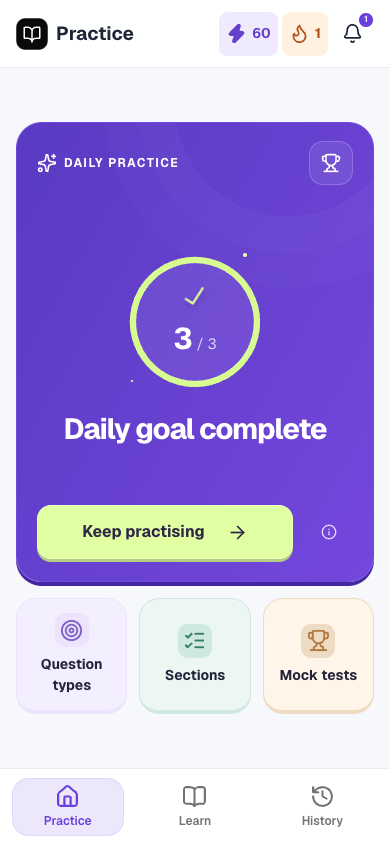
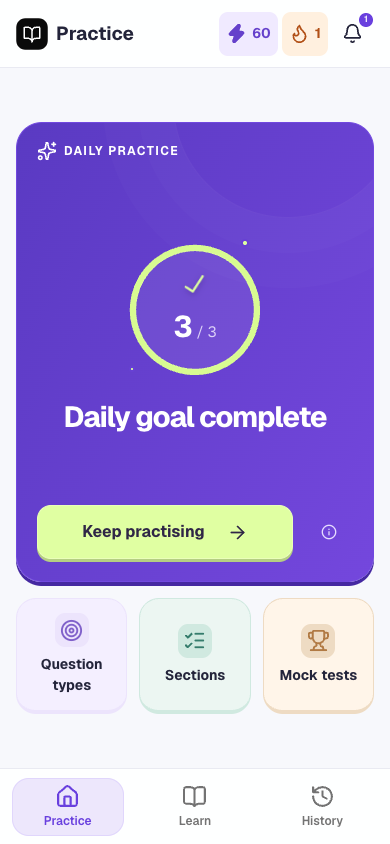
Keep header sticky and move achievements into History

Changed region(s): [[0.1538, 0.2773, 0.8615, 0.5237], [0.0923, 0.154, 0.4615, 0.2156], [0.8308, 0.154, 0.8923, 0.2156]]

diff --git a/tests/practice.spec.ts b/tests/practice.spec.ts
@@ -1,4 +1,30 @@
 import { test, expect, type Page } from "@playwright/test";
+async function openAchievements(page: Page) {
+  const mobile = page.viewportSize()!.width < 768;
+  await page
+    .getByRole("navigation", {
+      name: mobile ? "Mobile navigation" : "Main navigation",
+      exact: true,
+    })
+    .getByRole("link", {
+      name: mobile ? "History" : "My practice",
+      exact: true,
+    })
+    .click();
+  await page.getByRole("link", { name: "Achievements", exact: true }).click();
+  await expect(page).toHaveURL(/\/achievements$/);
+  await expect(
+    page
+      .getByRole("navigation", {
+        name: mobile ? "Mobile navigation" : "Main navigation",
+        exact: true,
+      })
+      .getByRole("link", {
+        name: mobile ? "History" : "My practice",
+        exact: true,
+      }),
+  ).toHaveAttribute("aria-current", "page");
+}
 async function drill(page: Page, name: string) {
   await page.goto("/#types");
   await page.getByRole("searchbox").fill(name.replaceAll("\\", ""));
@@ -155,7 +181,7 @@ test("shared cards list hides unnecessary pagination and preserves navigation on
   await expect(
     page.getByRole("navigation", { name: "practice mode pages", exact: true }),
   ).toHaveCount(0);
-  await page.getByRole("button", { name: "View achievements" }).click();
+  await openAchievements(page);
   await expect(page.locator(".cards-list-grid .achievement")).toHaveCount(4);
   const achievementNext = page.getByRole("button", {
     name: "Next achievement pages",
@@ -285,7 +311,7 @@ test("screen-sized game navigation, all question pages and beginner guidance", a
       page.getByRole("region", { name: "Practice level" }),
     ).toBeVisible();
     await screenFits(page);
-    await page.getByRole("button", { name: "View achievements" }).click();
+    await openAchievements(page);
     await expect(
       page.getByRole("button", {
         name: "First spark, not earned. View achievement",
@@ -868,7 +894,7 @@ test("daily quest earns real XP and badges, persists after reload and resets wit
   await expect(
     page.getByRole("button", { name: "0 XP, level 1. View progress" }),
   ).toBeVisible();
-  await page.getByRole("button", { name: "View achievements" }).click();
+  await openAchievements(page);
   await page
     .getByRole("button", { name: "First spark, not earned. View achievement" })
     .click();
@@ -911,7 +937,7 @@ test("daily quest earns real XP and badges, persists after reload and resets wit
   await expect(
     page.getByRole("heading", { name: "Daily goal complete", exact: true }),
   ).toBeVisible();
-  await page.getByRole("button", { name: "View achievements" }).click();
+  await openAchievements(page);
   await expect(
     page.getByRole("button", {
       name: "First spark, earned. View achievement",
@@ -1332,7 +1358,7 @@ test("daily home groups progress and actions across fresh, partial and completed
       await expect(action).toBeEnabled();
       await expect(
         daily.getByRole("button", { name: "View achievements" }),
-      ).toBeVisible();
+      ).toHaveCount(0);
       await expect(page.locator(".practice-modes a")).toHaveCount(3);
       await screenFits(page);
       const bounds = await daily.evaluate((node) => {
@@ -1366,7 +1392,7 @@ test("daily home groups progress and actions across fresh, partial and completed
   await expect(
     page.getByRole("button", { name: "How practice XP works" }),
   ).toBeFocused();
-  await page.getByRole("button", { name: "View achievements" }).click();
+  await openAchievements(page);
   await expect(
     page.getByRole("heading", { name: "Your achievements" }),
   ).toBeVisible();

diff --git a/src/GameHub.tsx b/src/GameHub.tsx
@@ -110,7 +110,6 @@ export function GameStatus({
 }
 export function GameHub({
   view,
-  onViewChange,
   progress: p,
   today,
   ready,
@@ -118,14 +117,12 @@ export function GameHub({
   navigate,
 }: {
   view: string;
-  onViewChange: (view: string) => void;
   progress: Progress;
   today: string;
   ready: boolean;
   onQuest: () => void;
   navigate: (page: ScreenId) => void;
 }) {
-  const setView = onViewChange;
   const [selected, setSelected] = useState<string | null>(null);
   const done = Math.min(3, dayCount(p, today)),
     complete = done >= 3,
@@ -142,25 +139,6 @@ export function GameHub({
             {view === "progress" ? "Your progress" : "Your achievements"}
             <span className="accent-dot">.</span>
           </h2>
-          <div className="hub-tools">
-            {view !== "badges" && (
-              <Tooltip>
-                <TooltipTrigger
-                  render={
-                    <Button
-                      size="icon"
-                      variant="outline"
-                      aria-label="View achievements"
-                      onClick={() => setView("badges")}
-                    />
-                  }
-                >
-                  <Trophy />
-                </TooltipTrigger>
-                <TooltipContent>Achievements</TooltipContent>
-              </Tooltip>
-            )}
-          </div>
         </div>
       )}
       <div className="quest-grid">
@@ -174,22 +152,6 @@ export function GameHub({
                 <Sparkles className="size-3.5" />
                 DAILY PRACTICE
               </span>
-              <Tooltip>
-                <TooltipTrigger
-                  render={
-                    <Button
-                      size="icon"
-                      variant="ghost"
-                      className="quest-achievements"
-                      aria-label="View achievements"
-                      onClick={() => setView("badges")}
-                    />
-                  }
-                >
-                  <Trophy />
-                </TooltipTrigger>
-                <TooltipContent>Achievements</TooltipContent>
-              </Tooltip>
             </div>
             <div className="quest-body">
               <div

diff --git a/src/App.tsx b/src/App.tsx
@@ -420,7 +420,11 @@ export default function App() {
   }
   const currentGuide = guides.find((g) => g.id === guideId);
   const active = titles[page] ? page : "home";
-  const title = result ? "Review" : currentGuide?.title || titles[active];
+  const navActive = hubView === "badges" ? "history" : active;
+  const title = result
+    ? "Review"
+    : currentGuide?.title ||
+      (hubView === "badges" ? "Achievements" : titles[active]);
   const practicePlan =
     page === "practice" && progressReady
       ? makePlan(route.mode, route.practiceId)
@@ -443,7 +447,7 @@ export default function App() {
           <Link to="/" className="rail-logo" aria-label="PTE Studio home">
             <img src={asset("icon.svg")} alt="" className="size-9 rounded-xl" />
           </Link>
-          <Nav active={active} />
+          <Nav active={navActive} />
         </aside>
         <div className="workspace">
           <header className="topbar">
@@ -559,7 +563,6 @@ export default function App() {
                 <div className="home-screen">
                   <GameHub
                     view={hubView}
-                    onViewChange={setHubView}
                     progress={progress}
                     today={today}
                     ready={progressReady}
@@ -741,7 +744,7 @@ export default function App() {
             </div>
           </main>
         </div>
-        <Nav active={active} mobile />
+        <Nav active={navActive} mobile />
         <Dialog open={clearConfirm} onOpenChange={setClearConfirm}>
           <DialogContent className="practice-ui" showCloseButton={false}>
             <DialogTitle>Clear your practice history?</DialogTitle>

diff --git a/src/LearningScreens.tsx b/src/LearningScreens.tsx
@@ -10,9 +10,10 @@ import {
   Check,
   History,
   Trash2,
+  Trophy,
   Info,
 } from "lucide-react";
-import { Button } from "./components/ui/button";
+import { Button, buttonVariants } from "./components/ui/button";
 import { Badge } from "./components/ui/badge";
 import { ReadingPages } from "./Pages";
 import { CardsList } from "./components/CardsList";
@@ -299,18 +300,29 @@ export function HistoryScreen({
 }) {
   return (
     <div className="screen-stack">
-      <div className="screen-toolbar">
+      <div className="screen-toolbar flex-wrap">
         <h2 className="screen-title">Your sessions.</h2>
-        {!!history.length && (
-          <Button
-            variant="outline"
-            size="icon"
-            aria-label="Clear practice history"
-            onClick={onClear}
+        <div className="ml-auto flex items-center gap-2">
+          <Link
+            to="/achievements"
+            className={buttonVariants({ variant: "outline" })}
+            data-slot="button"
+            data-size="default"
+            data-variant="outline"
           >
-            <Trash2 />
-          </Button>
-        )}
+            <Trophy /> Achievements
+          </Link>
+          {!!history.length && (
+            <Button
+              variant="outline"
+              size="icon"
+              aria-label="Clear practice history"
+              onClick={onClear}
+            >
+              <Trash2 />
+            </Button>
+          )}
+        </div>
       </div>
       <CardsList
         items={history}

diff --git a/src/screens.css b/src/screens.css
@@ -30,7 +30,8 @@
   height: 25px;
 }
 .topbar {
-  position: relative;
+  position: sticky;
+  top: 0;
   flex: 0 0 80px;
   height: 80px;
   padding: 0 32px;
@@ -1491,19 +1492,6 @@
 }
 .hub-play .quest-topline {
   flex-shrink: 0;
-}
-.quest-achievements[data-size="icon"] {
-  color: #fff;
-  background: #ffffff14;
-  border: 1px solid #ffffff30;
-  border-radius: 14px;
-  width: 44px;
-  min-width: 44px;
-  min-height: 44px;
-}
-.quest-achievements[data-size="icon"]:hover {
-  color: #fff;
-  background: #ffffff28;
 }
 .hub-play .quest-body {
   flex: 1;

diff --git a/docs/evidence/home-balance.md b/docs/evidence/home-balance.md
@@ -1,17 +1,20 @@
 # Practice home balance — issue #39
 
-The daily panel now keeps its progress, state heading and primary action together. Achievements opens from the panel's top row, removing the isolated trophy row. The bounded panel and larger ring preserve the violet/lime practice design without stretching blank space through the entire workspace. Short windows arrange the ring and heading side by side. All three practice modes still use CardsList; progress remains in the header. The XP explanation opens by click/tap or keyboard in a dismissible popover.
+The daily panel now keeps its progress, state heading and primary action together. Achievements opens from a labelled control in History; Practice and Progress have no trophy shortcut. The collection retains its direct route and keeps History selected. The bounded panel and larger ring preserve the violet/lime practice design without stretching blank space through the entire workspace. Short windows arrange the ring and heading side by side. All three practice modes still use CardsList; progress remains in the header. The XP explanation opens by click/tap or keyboard in a dismissible popover.
 
-Local Chrome evidence uses synthetic progress, not learner records:
+The workspace header remains sticky while the short-window escape scrolls. Local Chrome evidence uses synthetic progress, not learner records:
 
 - [Fresh phone](home-balanced-fresh-mobile.png)
 - [Completed phone](home-balanced-complete-mobile.png)
 - [Desktop](home-balanced-desktop.png)
+- [Achievements in History](history-achievements-mobile.png)
 
-Verification: `npm run build` passes content/model validation, TypeScript, client artifact and chunk-budget checks. Five focused browser journeys pass with `PTE_TEST_PORT=4198 npx playwright test tests/practice.spec.ts --grep 'daily home groups|simplified workspace fits|daily quest earns real|an empty quest|screen-sized game navigation'`.
+Verification: `npm run build` passes content/model validation, TypeScript, client artifact and chunk-budget checks. Nine focused browser journeys pass with `PTE_TEST_PORT=4198 npx playwright test tests/practice.spec.ts --grep 'shared cards list (fits|hides|pages)|screen-sized game navigation|daily quest earns real|an empty quest|daily home groups|simplified workspace fits|populated compact history'`.
 
 The home regression inspects fresh, partial and completed progress at 320×568, 360×640, 390×844, 768×1024 and 1440×900, checks that controls and progress fit the panel, exercises XP help and focus restoration, achievements and completion navigation, and verifies reachable controls at 320px width and heights 400, 451, 500, 540, 560 and 561 through the home scrolling escape and its boundary. Existing journeys cover saved rewards, reload/reset, partial quest resume and reduced motion. An old completion-label assertion was updated to the new visible heading; reward values and behaviour assertions remain intact.
 
-This is local Chrome evidence. Native iOS Safari, full-suite coverage, merge and deployment are not claimed. Product/agent guidance needs no change: existing navigation, practice modes, privacy and reward contracts are preserved. Rollback is a presentation-only revert, with no storage/schema migration.
+This is local Chrome evidence. Native iOS Safari, full-suite coverage, merge and deployment are not claimed. AGENTS.md records the sticky header and the requested History placement. Practice modes, privacy and reward contracts are preserved. Rollback is a presentation-only revert, with no storage/schema migration.
 
 The single independent review found no actionable PR defects at base `e3cbeefdcaa0fcb233d2014975d8dcd4d8cc27a9` / head `21b0be95723ac930d93790d08f5f51ea9f1ec91c`. It independently exercised navigation/help and inspected the screenshots. It identified pre-existing clipping at 320×500 above the original 450px scrolling threshold. The home-only escape now extends through 560px; other screens retain their existing threshold. The responsible mechanism is the viewport-constrained card combined with its minimum ring/button heights and overflow clipping. Fresh/partial/completed daily states share this layout owner; normal phone/tablet/desktop bounds and the short-height action bounds are covered. No reward, runner, catalogue or storage owner is changed. These subsequent CSS/test fixes are focused-validated, not independently re-reviewed.
+
+Operator follow-ups: the header is sticky, and the achievement shortcut moved to History. The History action uses a semantic link with existing Button variants. Empty/populated history retains its shared CardsList layout, with toolbar wrapping at narrow widths. Focused navigation/reward journeys now open achievements through History and assert its selected navigation state. Manual Chrome checks verify direct collection reload/browser-back and header position/control use after document scroll at 390×500, 390×400 and 1440×400. The previous independent review remains historical to its pinned head; these requested follow-ups do not restart the automatic review cycle.

diff --git a/AGENTS.md b/AGENTS.md
@@ -8,7 +8,7 @@ An independent, beginner-friendly PTE Academic practice PWA. All learner-facing 
 - Use practice/session language in learner-facing copy despite the playful visuals; retain the requested “Start daily quest” action. History uses compact cards, and single-page pagers are hidden. Do not restore the removed header install/offline/info controls, beginner footer or sidebar privacy icon.
 - Keep required speech-model preparation in the header notification bell and its popover list, including download progress and error/retry details; do not show a preparation banner in the workspace.
 - `src/routes/` owns typed TanStack Router routes; `src/routing.ts` owns shared screen identity and navigation destinations; `src/router.tsx` creates the Start router and local Query provider; preserve basename-aware real paths, history deep links, back/forward and reload recovery. `src/PracticeSession.tsx` owns route-scoped preflight/run lifecycle. Shared playback lives in `src/components/AudioPlayer.tsx` using existing shadcn controls and practice tokens; timed prompts retain Runner authority and one-play rules.
-- Review keeps one response panel, with a differing answer key inline for text answers. Keep only question-specific feedback here; general tips belong in Learn. Use shared `ReadingPages` to deduplicate and pack related text across guidance, details and review; open question guides with Instructions. Keep media status in one place and omit completed audio-only panels. Put question navigation beside the heading, and show save rewards once through Sonner. Progress opens through the header and Practice through the main navigation; do not duplicate those actions in the game hub.
+- Review keeps one response panel, with a differing answer key inline for text answers. Keep only question-specific feedback here; general tips belong in Learn. Use shared `ReadingPages` to deduplicate and pack related text across guidance, details and review; open question guides with Instructions. Keep media status in one place and omit completed audio-only panels. Put question navigation beside the heading, and show save rewards once through Sonner. Progress opens through the header and Practice through the main navigation; do not duplicate those actions in the game hub. Achievements opens from History with a visible label; do not add trophy shortcuts to Practice or Progress. The workspace header stays sticky during scrolling.
 - Saved speaking reviews open on the visibly labelled Feedback panel for syllable scoring/results, legacy transcripts or self-review; keep Feedback available with clear guidance when no recording was saved. Your response provides playback. Do not add a general Information review tab.
 - `src/components/CardsList.tsx` owns responsive card grids and conditional pagination for catalogues, history, practice modes and achievements. Use its sizing options instead of independent column/row breakpoints; keep text readable and empty/single-page lists free of pagination.
 - TanStack Start uses SPA mode, a root `ClientOnly` outlet and a client-only workspace route. Keep the document hydration boundary so static deep links do not hydrate an app against empty shell markup. Only the public document shell renders at build time. Publish only the client files copied into `dist/` by `scripts/publish-static.mjs`; `.start/server` is build-only. Preview uses `vite.static.config.ts` to exercise actual static hosting. Never introduce runtime server functions or serialize learner data into the shell.
